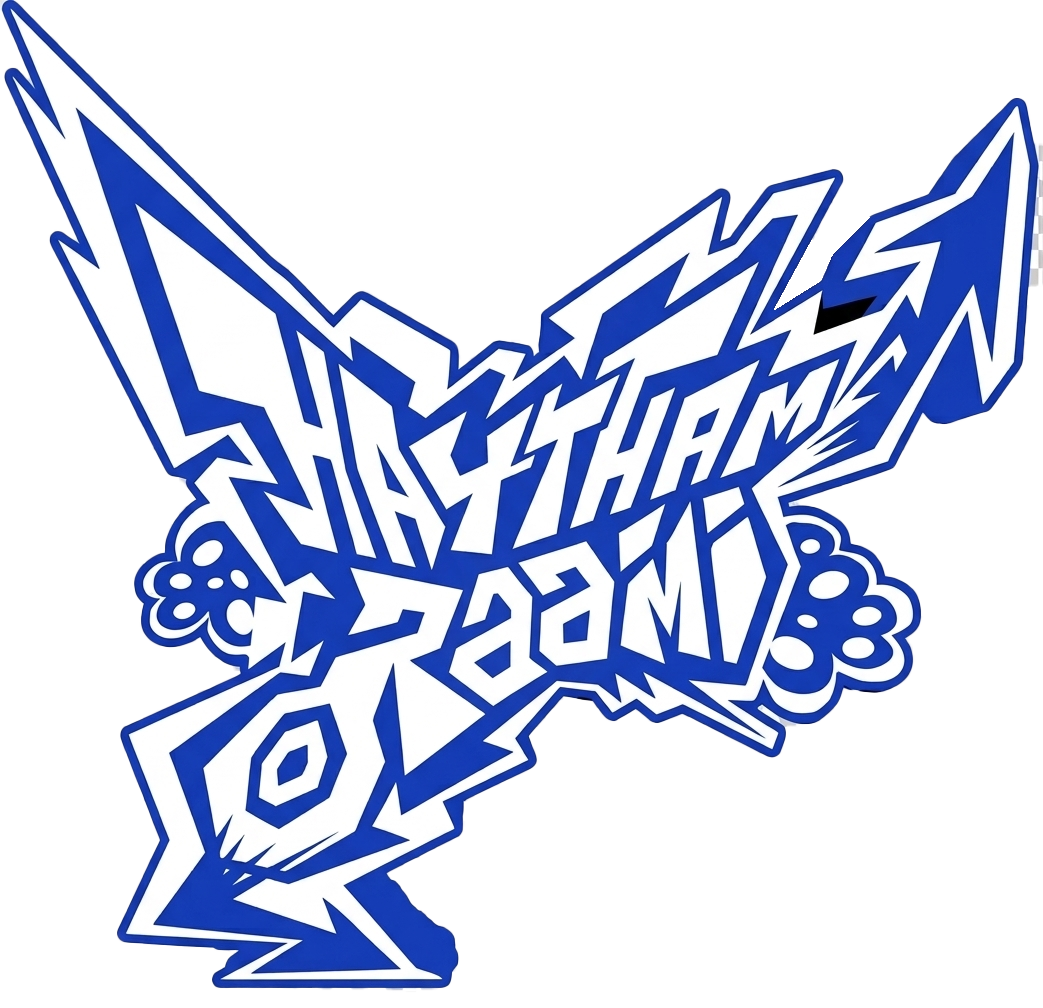
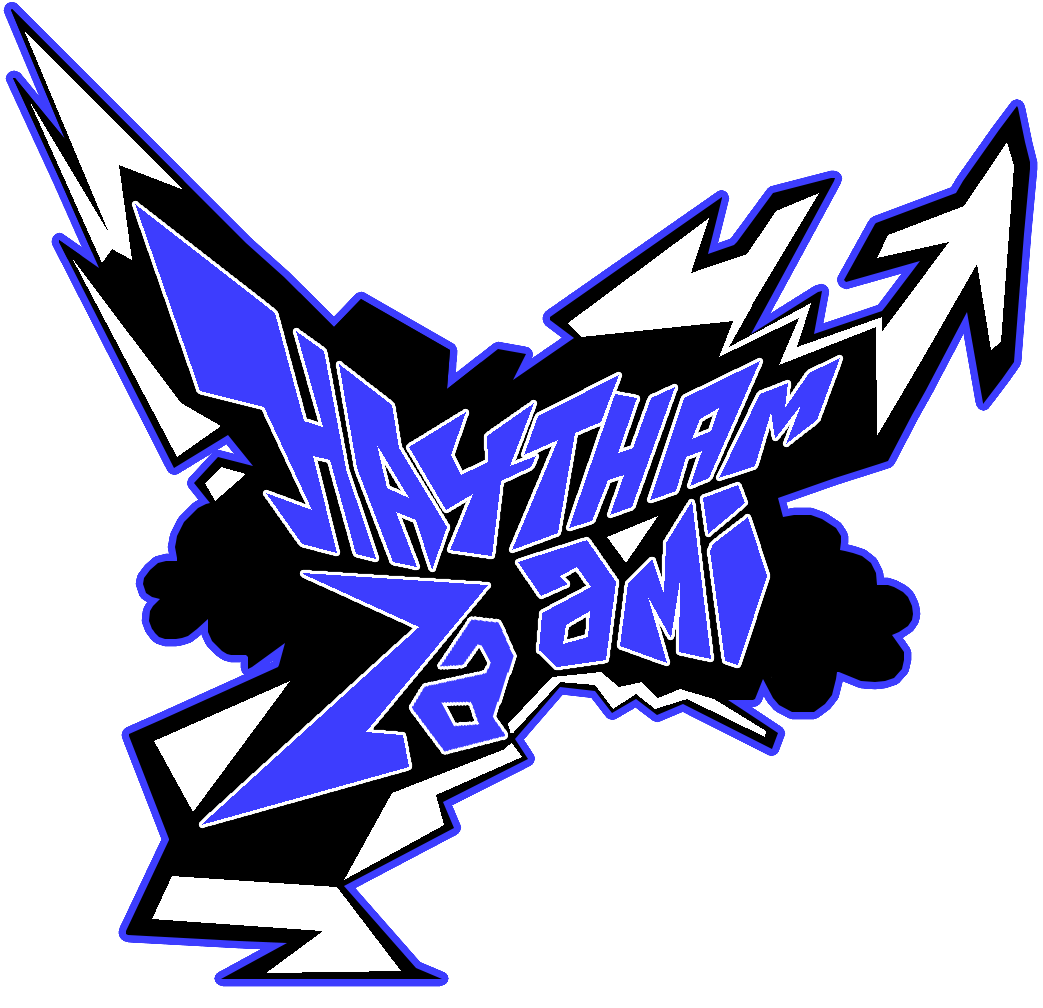
updatesssss

diff --git a/rsm-site/src/index.css b/rsm-site/src/index.css
@@ -62,13 +62,12 @@ ul {
 }
 
 .home_image {
-  width: 520px;
+  width: 100%;
+  max-width: 720px;
   border-radius: 20px;
   box-shadow: 0 6px 18px rgba(0,0,0,0.18);
   display: block;
-  margin-left: auto;
-  margin-right: 30px;
-  max-width: 100%;
+  margin: 0 auto;
   height: auto;
 }
 
@@ -77,32 +76,68 @@ ul {
   flex-direction: column;
   justify-content: center; /* vertically center text inside the hero row */
   gap: 8px; /* small gap between heading and subtext */
-  max-width: 400px;
+  max-width: 520px;
   font-size: 72pt;
-  padding-left: 10px;
+  padding-left: 20%;
 }
 
 .subtext {
   font-size: 24pt;
   color: #ffffff;
   margin: 0; /* remove default top margin so it's closer to the heading */
+}
 
+.home_text h1 {
+  transition: color 0.2s ease;
+}
+
+.home_text h1:hover {
+  color: #4741f4;
 }
 
 .hero {
   display: flex; /* Enables flexbox */
-  gap: 10px;    /* Adds space between the divs */
+  gap: 20px;    /* Adds space between the divs */
   align-items: center; /* prevent children from stretching vertically */
-}
-.box {
-  flex: 1;      /* Makes both divs take up equal width */
-  padding: 20px;
-  background: lightgray;
+  justify-content: center;
+  flex-wrap: wrap;
+  padding: 40px 20px;
 }
 
 .project_image {
-  width: 800px;
+  width: 100%;
+  max-width: 1000px;
   height: auto;
   border-radius: 8px;
-  box-shadow: 0 6px 18px rgba(0,0,0,0.18);
+  display: block;
+  margin: 0 auto;
+}
+
+@media screen and (max-width: 900px) {
+  .home_text {
+    text-align: center;
+    padding-left: 0;
+    width: 100%;
+    font-size: 56pt;
+  }
+
+  .subtext {
+    font-size: 20pt;
+  }
+}
+
+@media screen and (max-width: 600px) {
+  .hero {
+    flex-direction: column;
+    align-items: center;
+    padding: 20px 16px;
+  }
+
+  .home_text {
+    font-size: 44pt;
+  }
+
+  .subtext {
+    font-size: 18pt;
+  }
 }

diff --git a/rsm-site/src/routes/home.js b/rsm-site/src/routes/home.js
@@ -2,22 +2,23 @@
 
 import React from 'react';
 import Navbar from '../components/navbar';
+import { useState } from 'react';
 
 const Home = () => {
+
+  const [isHovered, setIsHovered] = useState(false);
+
   return (
     <div>
       <Navbar/>
       <div className="hero">
-      
-      <div className="home_text">
-        <h1>Haytham Zaami</h1>
-        <p className='subtext'> Machine Learning & Software Dev Enthusiast</p>
-      </div>
-      
-
+          <div className=" home_text" onMouseEnter={() => setIsHovered(true)} onMouseLeave={() => setIsHovered(false)}>
+              <h1>Haytham Zaami</h1>
+              <p className='subtext'> Machine Learning & Software Dev Enthusiast</p>
+          </div>
       <img src={require('../assets/haytham_sitting.jpg')} alt="home" className="home_image"/>
-      </div>
     </div>
+  </div>
 
 
 

diff --git a/rsm-site/src/components/navbar.css b/rsm-site/src/components/navbar.css
@@ -22,6 +22,15 @@
     display: none;
 }
 
+.logo {
+  width: 80px;
+  height: auto;
+  display: inline-block;
+  filter:
+    drop-shadow(0 0 10px #030ff4)
+    drop-shadow(0 0 20px #030ff4)
+    drop-shadow(0 0 30px #03a9f4);
+}
 
 @media screen and (max-width: 1040px) {
     .nav-links {

diff --git a/rsm-site/src/components/navbar.js b/rsm-site/src/components/navbar.js
@@ -11,7 +11,7 @@ const Navbar = () => {
   return (
     <div className="header">
         <Link to="/">
-          <h1>Resume Site</h1>
+          <img src={require('../assets/jsr_hz.png')} alt="logo" className="logo"/>
         </Link>
         <div className="hamburger" onClick={handleClick}>
           {click ? (